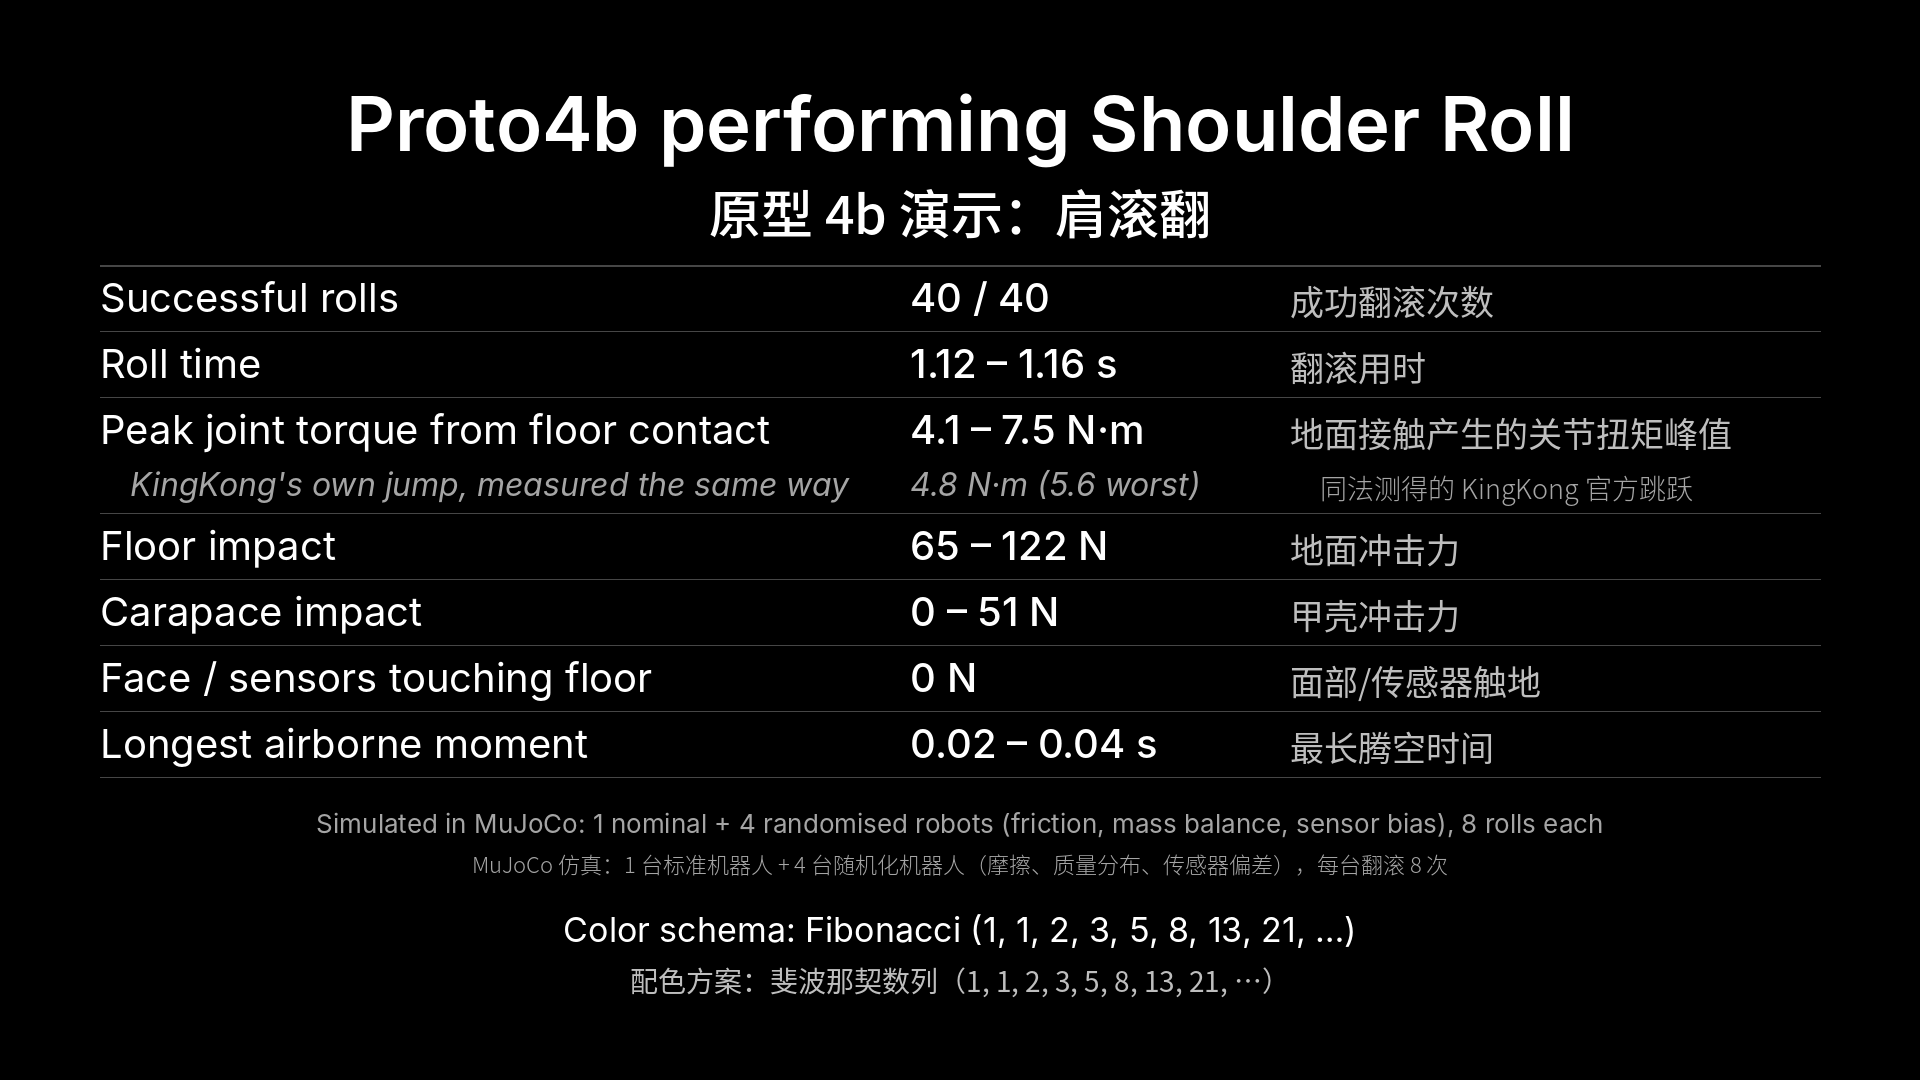
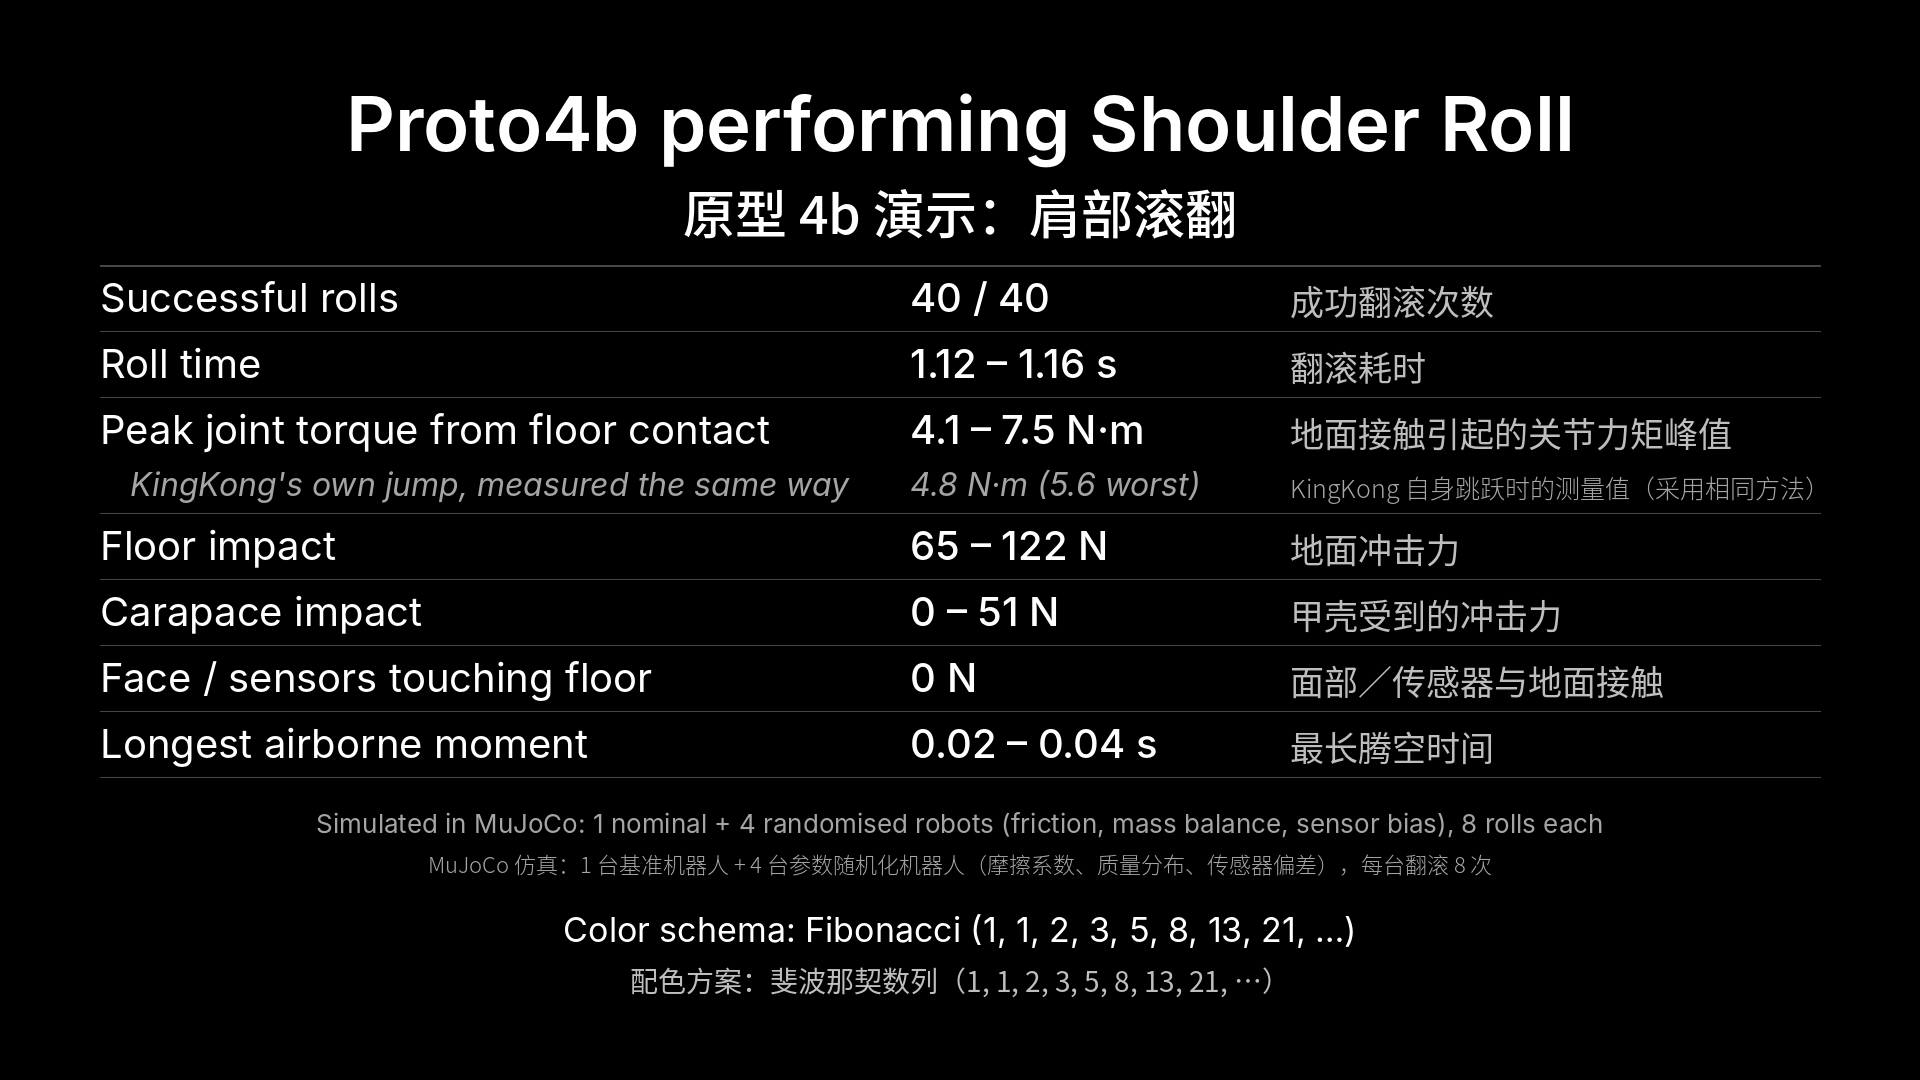
Footage slides: Chinese wording reviewed
Rows: 翻滚耗时, 地面接触引起的关节力矩峰值, 甲壳受到的冲击力, 面部／传感器与地面接触;
the KingKong comparison now reads 'its own jump', not 'official'
(KingKong 自身跳跃时的测量值（采用相同方法）); footnote 基准 / 参数随机化 / 摩擦系数;
4b's title 肩部滚翻. That note line is the longest in the Chinese column, so
it starts at the column edge in a slightly smaller face.

Claude-Session: https://claude.ai/code/session_018e6UqHzaryVWYHuwL5wCvh

diff --git a/studies/footage/make_slide.py b/studies/footage/make_slide.py
@@ -44,7 +44,7 @@ img = Image.new("RGB", (W, H), (0, 0, 0))
 dr = ImageDraw.Draw(img)
 f_title, f_title_zh = inter("SemiBold", 76), cjk("Medium", 52)
 f_label, f_value, f_label_zh = inter("Regular", 40), inter("Medium", 40), cjk("Regular", 34)
-f_note, f_note_zh = inter("Italic", 32), cjk("Light", 27)
+f_note, f_note_zh = inter("Italic", 32), cjk("Light", 25)
 f_foot, f_foot_zh = inter("Regular", 26), cjk("Light", 22)
 f_schema, f_schema_zh = inter("Regular", 34), cjk("Regular", 28)
 
@@ -83,7 +83,8 @@ for i, (r, rh) in enumerate(zip(rows, row_hs)):
     dr.text((x_label + indent, top), r["en"], font=f_note if note else f_label,
             fill=GREY if note else WHITE)
     if r.get("zh"):
-        dr.text((x_zh + indent, top + (h(2) if note else h(2))), r["zh"],
+        # The Chinese note starts at the column edge: its line is the longest there.
+        dr.text((x_zh, top + (h(4) if note else h(2))), r["zh"],
                 font=f_note_zh if note else f_label_zh, fill=GREY if note else DIM)
     # The value sits level with the English line.
     dr.text((x_value, top), r["value"], font=f_note if note else f_value,
